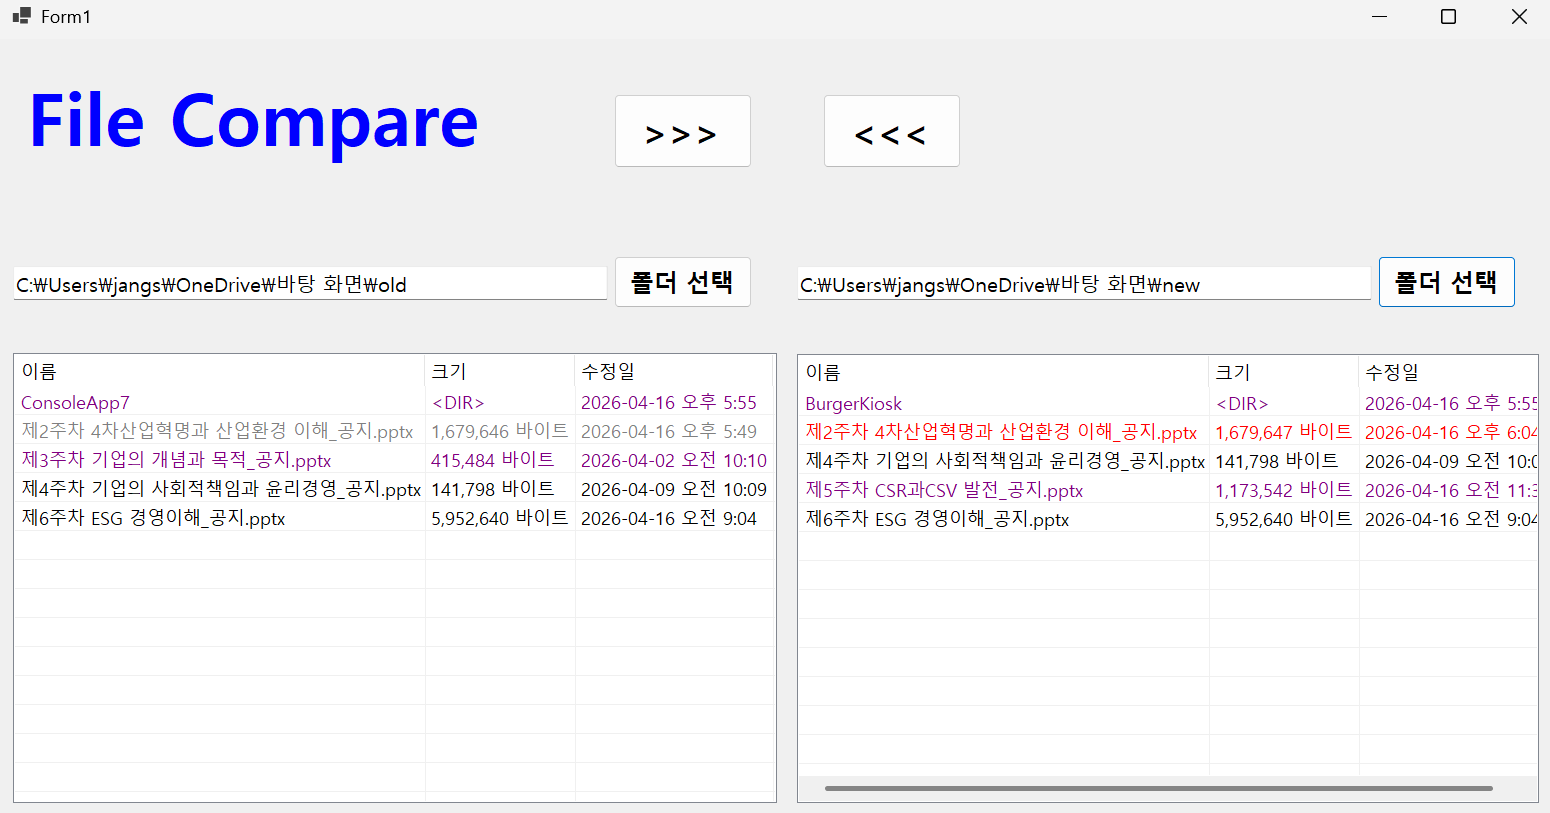
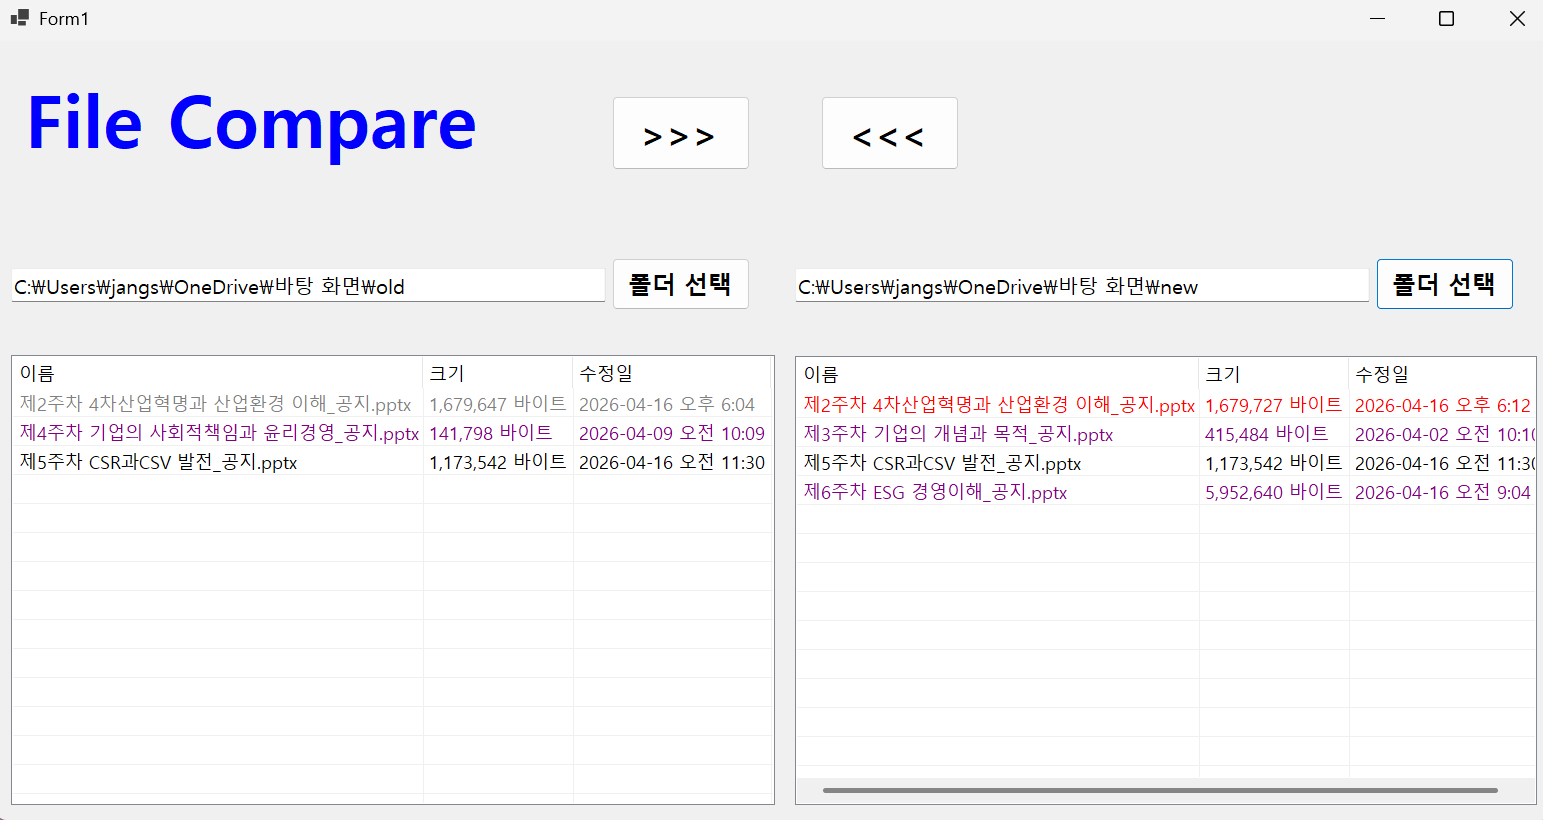
과제 4 리드 미 작성

diff --git a/README.md b/README.md
@@ -14,6 +14,7 @@
 	- 폴더 선택 기능과 파일 리스트 기능 구현 (색상 구분 표시)
 	- 양쪽 폴더 사이에서 파일의 복사 기능 구현
 	- 최신 폴더를 오래된 폴더로 덮어쓰기 할 시 물어보는 기능 구현
+	- 하위폴더에 대해서 한 방에 비교, 복사가 가능하도록 개선
 
 ## 실행 화면 (과제1)
 - 코드의 실행 스크린샷과 구현 내용 설명
@@ -43,3 +44,14 @@
 - 구현한 내용 (위 그림 참조)
 	- 선택한 파일을 반대쪽 폴더로 복사 기능 구현
 	- 최신 폴더를 오래된 폴더로 덮어쓰기 할 시 물어보는 기능 구현
+
+## 실행 화면 (과제4)
+- 코드의 실행 스크린샷과 구현 내용 설명
+
+![실행화면](img/screenshot-6.png)
+![실행화면](img/screenshot-7.png)
+
+- 구현한 내용 (위 그림 참조)
+	- 하위폴더를 하나의 파일처럼 처리
+	- 적절하게 색상 표시
+	- 복사 버튼 누르면 하위폴더의 모든 내용 (파일과 하위폴더 포함) 처리
